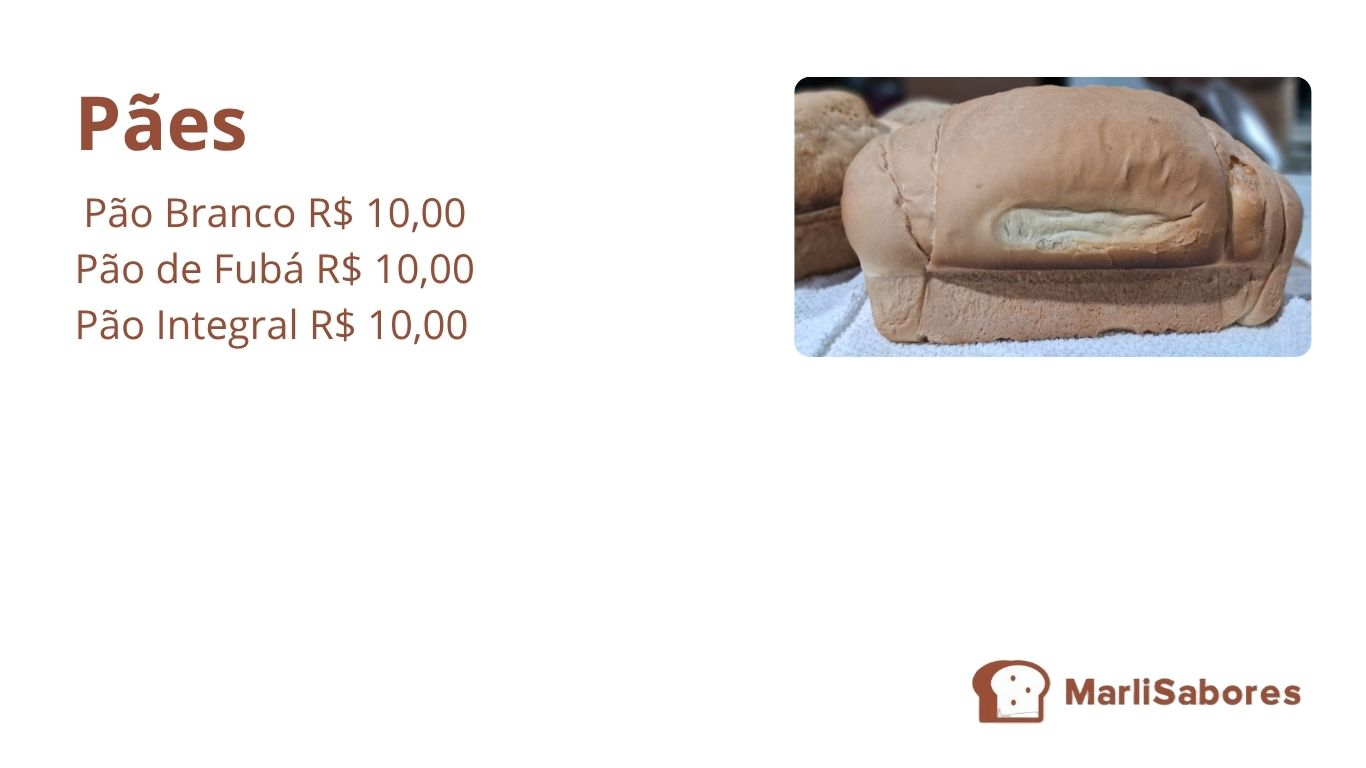
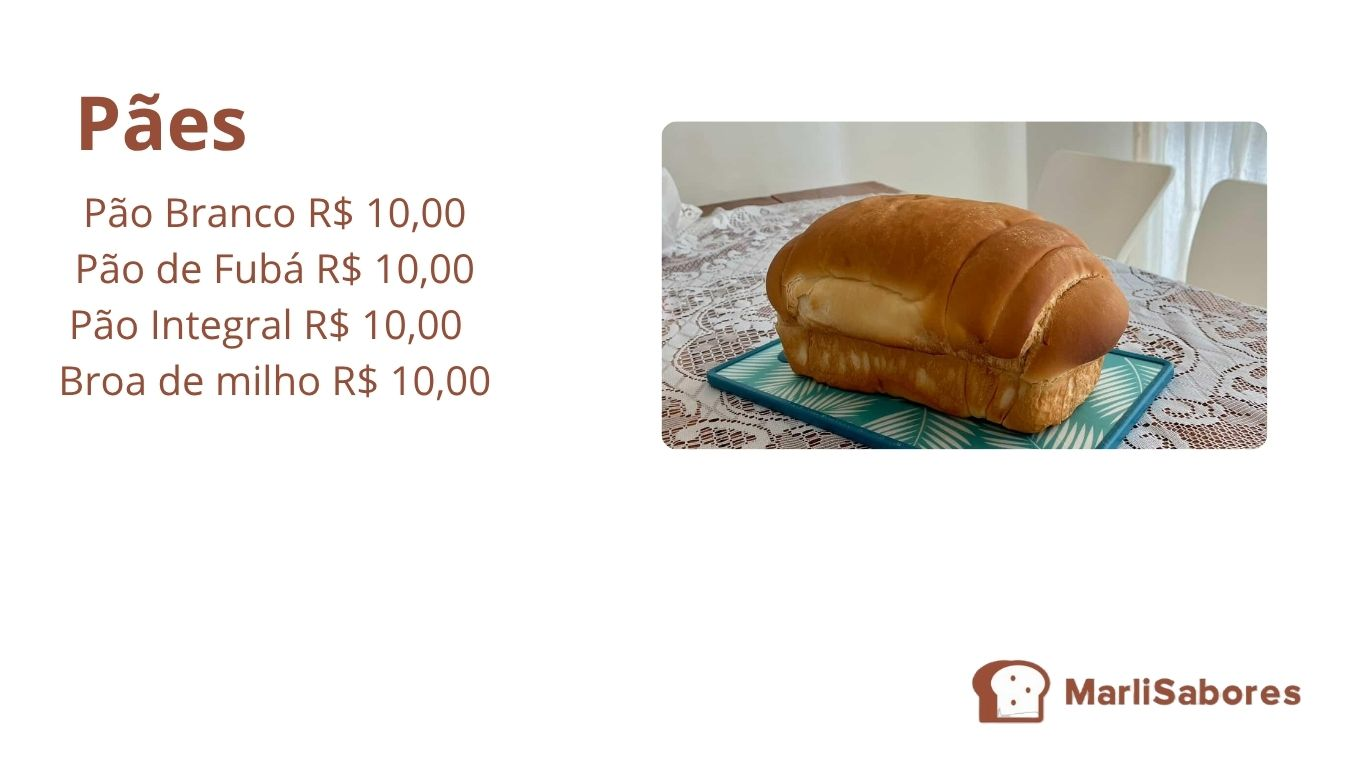
Atualiza página Home, estilos e adiciona foto dos pães

Changed region(s): [[0.4612, 0.0938, 0.9839, 0.5938], [0.0307, 0.4062, 0.369, 0.5312]]

diff --git a/src/styles/pricing.css b/src/styles/pricing.css
@@ -44,16 +44,18 @@
   display: flex;
   flex-direction: column; 
   background-color: #ffffff; /* Fundo branco do card */
-  padding: 1.5rem; 
-  border-radius: 12px;
+  padding: 0.5rem; 
+  border-radius: 32px;
   border: 1px solid #eaeaea; /* Bordinha bem suave */
   box-shadow: 0 8px 24px rgba(0, 0, 0, 0.04); /* Sombra elegante */
   transition: transform 0.3s ease; /* Efeito suave ao passar o mouse */
+  position: relative;
 }
 
 /* Efeito Hover: levanta o card quando o mouse passa por cima */
 .menu-card:hover {
-  transform: translateY(-5px);
+  transform: translateY(-5px) scale(1.10);
+  z-index: 10; 
 }
 
 /* Estilo da imagem do panfleto */
@@ -61,14 +63,14 @@
   width: 100%; 
   height: auto; 
   object-fit: contain; 
-  border-radius: 8px; 
+  border-radius: 24px; 
   margin-bottom: 1.5rem; 
 }
 
-/* Wrapper para centralizar o botão e empurrá-lo para o fundo */
-.btn-wrapper-center {
-  display: flex;
-  justify-content: center;
+/* Container do botão*/
+
+.btn-wrapper {
   width: 100%;
-  margin-top: auto; /* Se uma imagem for maior que a outra, os botões continuam alinhados no fundo */
+  max-width: 400px;    /* Limita o tamanho do container ao tamanho de um card */
+  margin: 3rem auto 0; /* O 'auto' nas laterais centraliza o container na tela perfeitamente */
 }

diff --git a/src/pages/Home.tsx b/src/pages/Home.tsx
@@ -139,26 +139,20 @@ export default function Home() {
                     
                     <div className="menu-card">
                         <img src={cucas} alt="Cardápio de Cucas" />
-                        <div className="btn-wrapper-center">
-                            <Button text="Pedir agora" />
-                        </div>
                     </div>
 
                     <div className="menu-card">
                         <img src={paes} alt="Cardápio de Pães" />
-                        <div className="btn-wrapper-center">
-                            <Button text="Pedir agora" />
                         </div>
-                    </div>
+                    
 
                     <div className="menu-card">
                         <img src={bolos} alt="Cardápio de Bolos" />
-                        <div className="btn-wrapper-center">
+                    </div>
+                </section>
+                <div className="btn-wrapper">
                             <Button text="Pedir agora" />
                         </div>
-                    </div>
-
-                </section>
             </section>
 
             <section id="contact" className="container">
